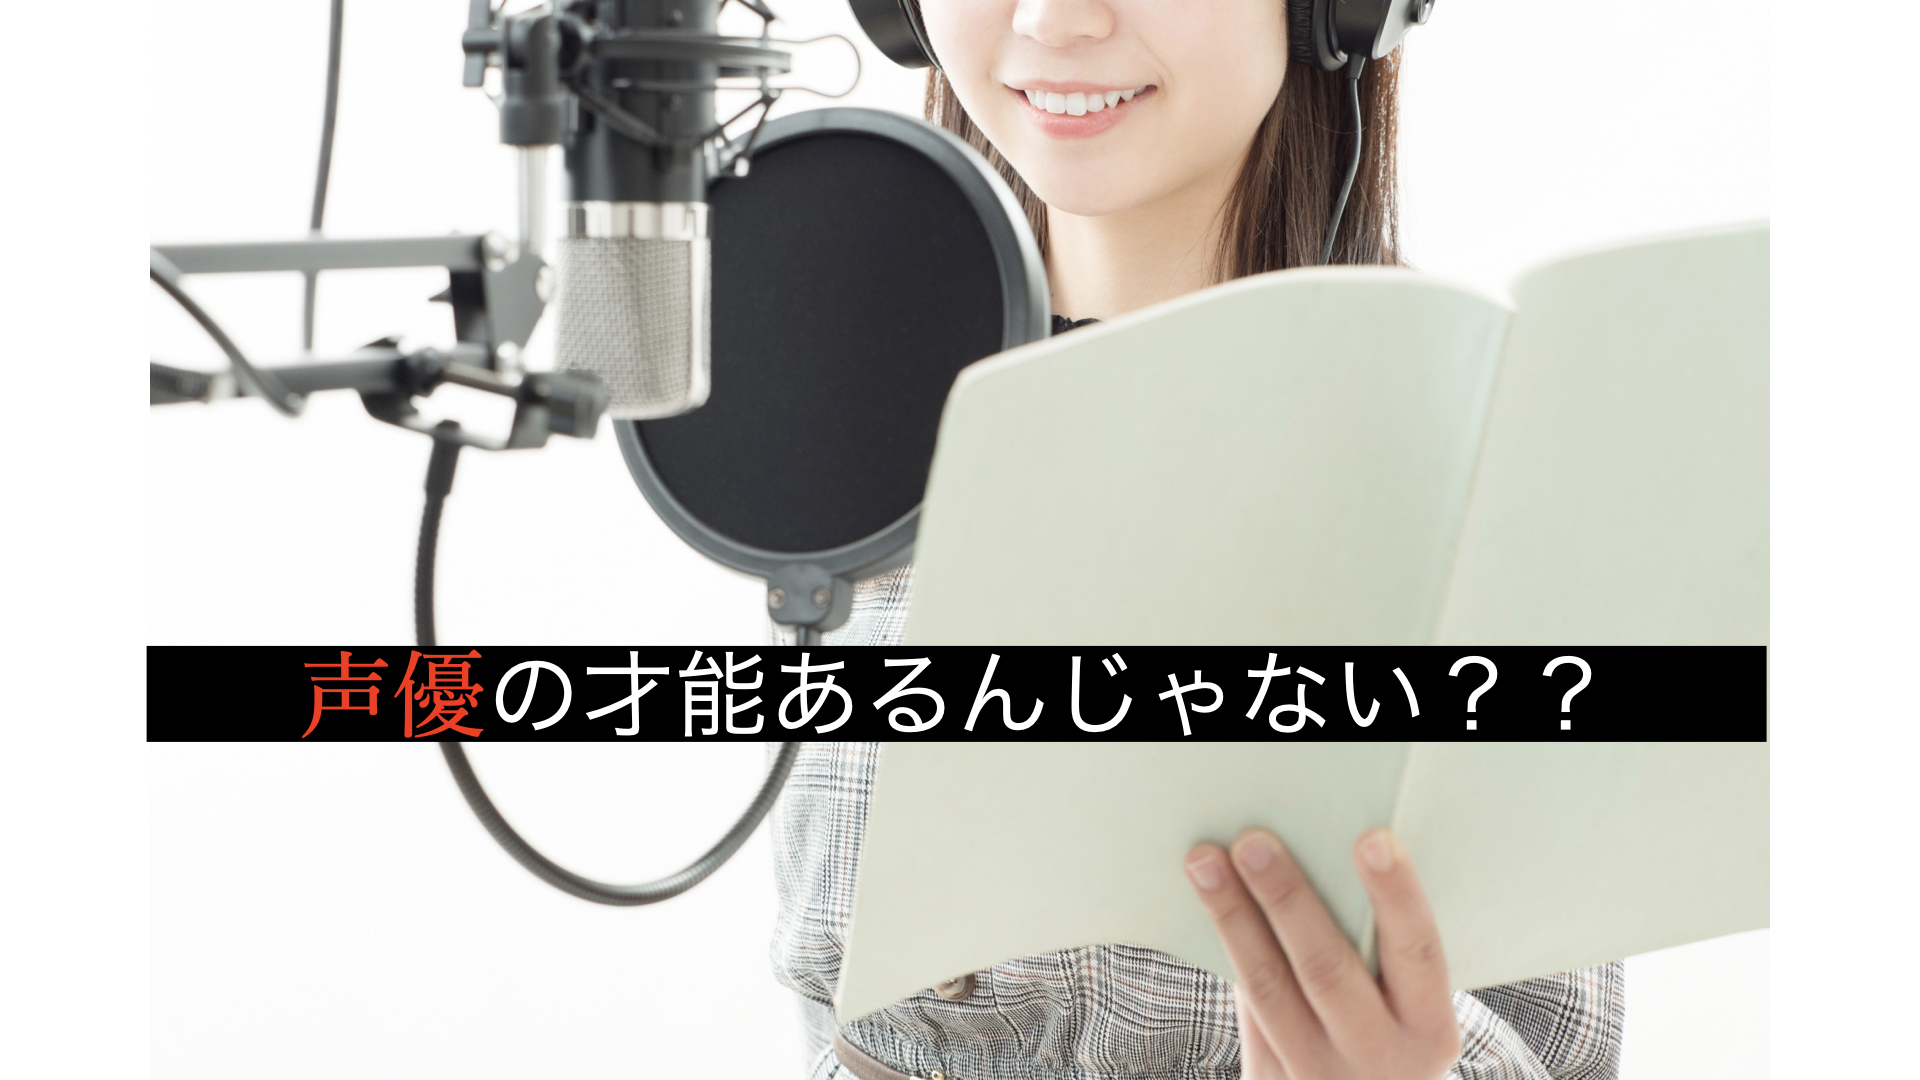
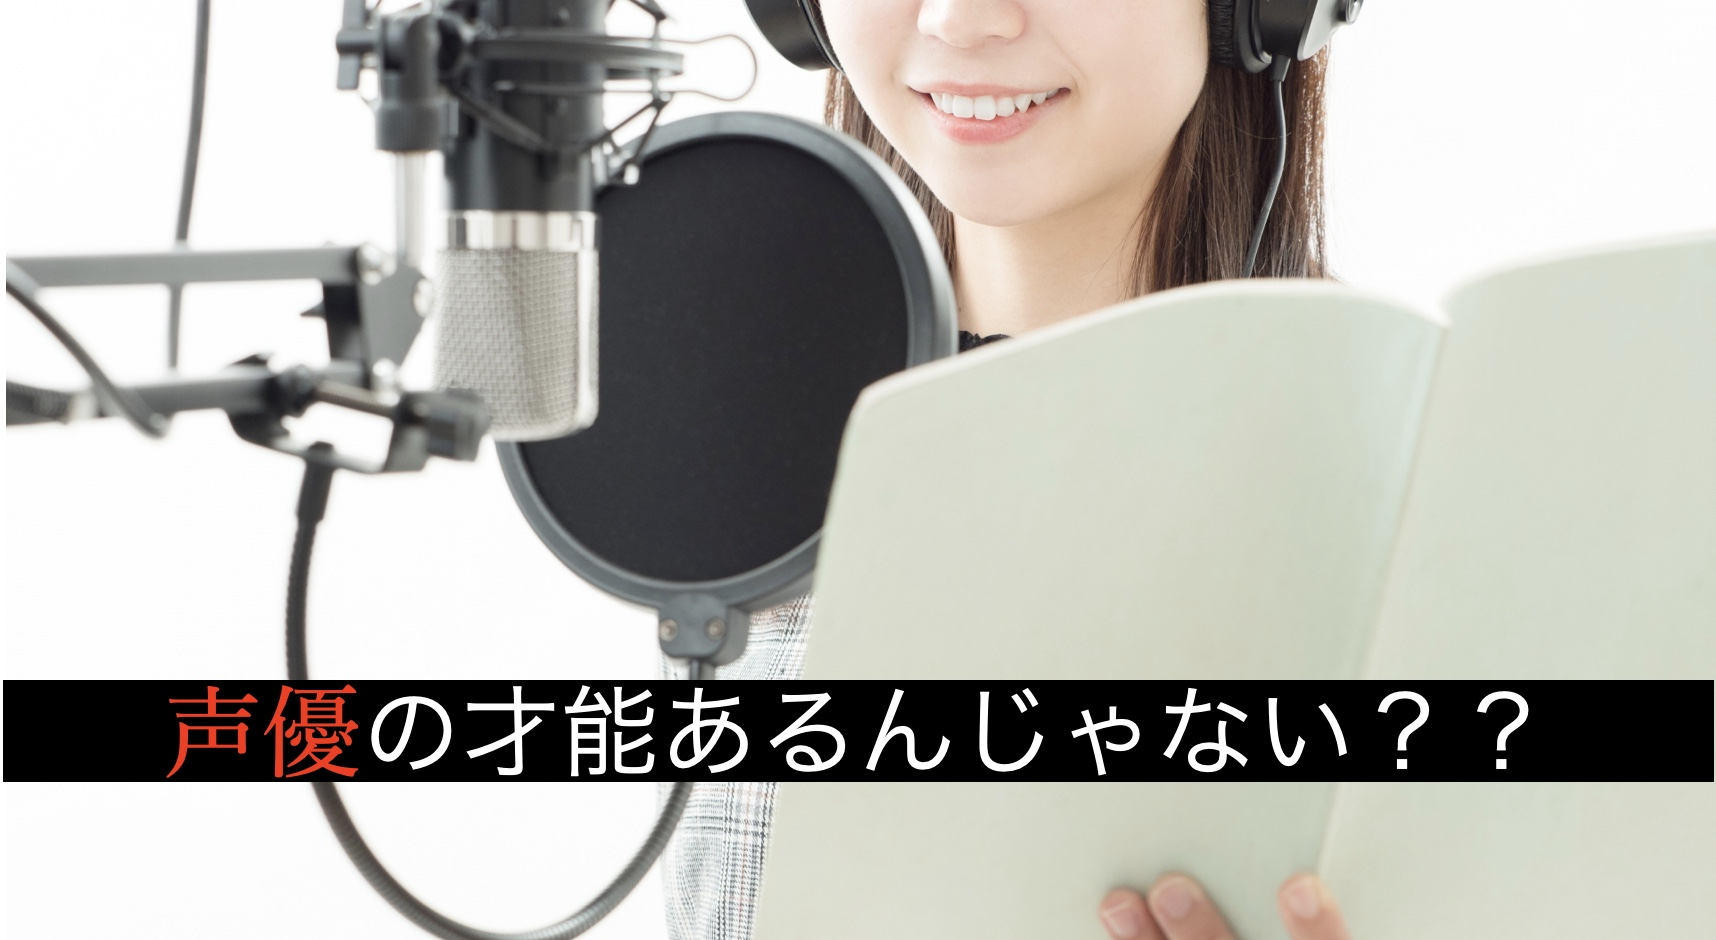
fix:デザイン調整、Googleアナリティクス導入

diff --git a/app/assets/stylesheets/application.css b/app/assets/stylesheets/application.css
@@ -34,13 +34,14 @@ a:active, a:focus,input:active, input:focus{outline:0;}
   margin : 0 auto;
   position: relative;
   overflow: hidden;
-  width: 70%;
-  height: 700px;
+  width: 100%;
+  height: 400px;
 }
 
 #mainImg img{
-	position: absolute;
-  width: 100%;
+  position: absolute;
+  width: 60%;
+  height: 400px;
 }
 
 #footer{
@@ -133,8 +134,20 @@ img{
 		text-align: left;
 	}
 	
-  #footer{
+    #footer{
 		padding: 30px 10px 70px 0;
+	}
+
+	#mainImg{
+		margin : 0 auto;
+		position: relative;
+		overflow: hidden;
+		width: 100%;
+		height: 400px;
+	}
+	#mainImg img{
+		position: absolute;
+		width: 100%;
 	}
 }
 
@@ -151,6 +164,17 @@ img{
 	.quote_emotion_index{
 		padding-bottom: 50px;
 	}
+	#mainImg{
+		margin : 0 auto;
+		position: relative;
+		overflow: hidden;
+		width: 100%;
+		height: 400px;
+	}
+	#mainImg img{
+		position: absolute;
+		width: 100%;
+	}
 }
 
 @media only screen and (max-width: 640px){
@@ -159,8 +183,13 @@ img{
 		position: relative;
 		overflow: hidden;
 		width: 100%;
-		height: 300px;
+		height: 400px;
 	  }
+	#mainImg img{
+		position: absolute;
+		width: 100%;
+	}
+
 	.innerS{
 		width: 94%;
 		padding-top: 1px;
@@ -219,8 +248,16 @@ img{
 		margin: 50px auto 0 auto;
 		display: block;
 	}
-	section{
-		padding-top: 50px;
+	#mainImg{
+		margin : 0 auto;
+		position: relative;
+		overflow: hidden;
+		width: 100%;
+		height: 400px;
+	}
+	#mainImg img{
+		position: absolute;
+		width: 100%;
 	}
 
 }

diff --git a/config/environments/production.rb b/config/environments/production.rb
@@ -110,4 +110,5 @@ Rails.application.configure do
   # config.active_record.database_selector = { delay: 2.seconds }
   # config.active_record.database_resolver = ActiveRecord::Middleware::DatabaseSelector::Resolver
   # config.active_record.database_resolver_context = ActiveRecord::Middleware::DatabaseSelector::Resolver::Session
+  GA.tracker = "G-35R2Y39FM9"
 end
